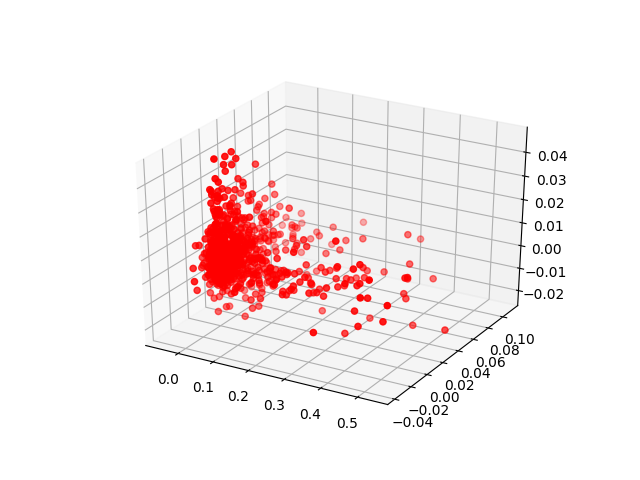
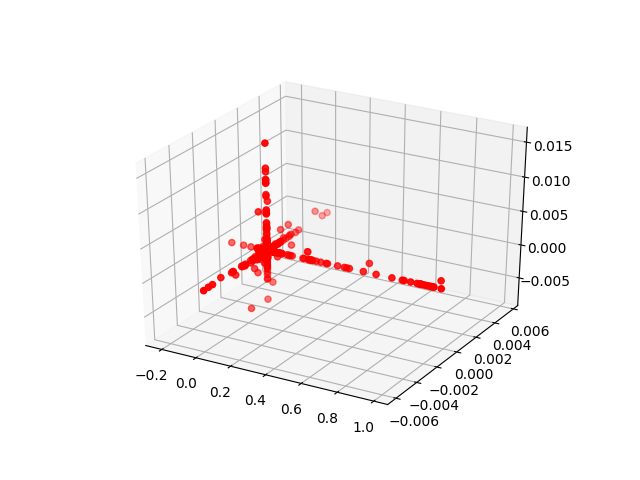
updated plotting

Changed region(s): [[0.2188, 0.1875, 0.9062, 0.9062], [0.2188, 0.7812, 0.5938, 0.9062]]

diff --git a/test_autoencoder.py b/test_autoencoder.py
@@ -3,19 +3,19 @@ import tensorflow.contrib.layers as lays
 
 import tensorflow as tf
 import numpy as np
-import matplotlib as mpl
 import matplotlib.pyplot as plt
+import matplotlib.axes
 from skimage import transform
 from mpl_toolkits.mplot3d import Axes3D
 from timeit import default_timer as timer
 
 # --------------- Define parameters -----------------------------
 batch_size = 10  # Number of samples in each batch
-epoch_num = 20  # Number of epochs to train the network
+epoch_num = 100  # Number of epochs to train the network
 lr = 0.001  # Learning rate
 OUTPUT_SIZE = 32 # size of the output volume produced by decoder
 INPUT_SIZE = 32 # size of the input volume given to the encoder
-total_input = 50
+total_input = 50 # total input volume
 
 def interpolationBetnLatentSpace(z1, z2):
     mx = 100
@@ -50,6 +50,7 @@ def loadfile():
         ax = input_fig.add_subplot(111, projection='3d')
         ax.scatter(ax_x, ax_y, ax_z, zdir='z', c='red')
         plt.savefig('input_data/demo' + str(i) + '.png')
+        plt.close()
         input_file = np.append(input_file, image_matrix)
 
     input_file = np.reshape(input_file, (50, 32 * 32 * 32))
@@ -114,12 +115,15 @@ with tf.Session() as sess:
             plot_loss = np.append(plot_loss, [[(ep+1), c]], axis=0)
 
     # --------------------plot loss -------------------------------------
-    print("This is plot_loss with shape", plot_loss, plot_loss.shape)
-    #plt.plot(plot_loss[:, 0], plot_loss[:, 1])
-    fig = plt.figure()
-    ax = fig.add_subplot(111, projection='3d')
-    plt.plot(plot_loss[:, 0], plot_loss[:, 1], c='red')
-    plt.savefig('output_data/loss.png')
+
+    plot_loss = plot_loss[1:, 0:]
+    print("This is plot_loss X and Y ", plot_loss[:, 0], plot_loss[:, 1])
+    loss_fig = plt.figure()
+    ax = loss_fig.add_subplot(111, projection='3d')
+    ax.plot(plot_loss[:, 0], plot_loss[:, 1], c='blue')
+    plt.savefig('output_data/test_loss.png')
+    plt.close()
+
 
     # ------------------test the trained network-------------------------------
     # batch_img = next_batch(input_file,1,0)
@@ -131,6 +135,7 @@ with tf.Session() as sess:
     l_space1 = sess.run([l_space, ae_outputs], feed_dict={ae_inputs: batch_img})[0]
     print("This is output shape of the decoder", recon_img.shape)
     out = np.reshape(recon_img, (OUTPUT_SIZE, OUTPUT_SIZE, OUTPUT_SIZE)).astype(np.float32)
+    avg_of_test_image = out.min()
     print("this is the shape of output volume", out.shape)
 
     # ----------------print the first line of the output shape ------------------------------
@@ -149,6 +154,7 @@ with tf.Session() as sess:
     ax = fig.add_subplot(111, projection='3d')
     ax.scatter(x, y, z, zdir='z', c='red')
     plt.savefig('output_data/demo_testMethod1.png')
+    plt.close()
 
     # -----------------------------test method 2----------------------------------------
 
@@ -159,13 +165,14 @@ with tf.Session() as sess:
     zdata = out[:, :, 2]
     ax.scatter3D(xdata, ydata, zdata, zdir='z', c='red')
     plt.savefig('output_data/demo_testMethod2.png')
+    plt.close()
 
     # ------------------------------test method 3-----------------------------------------
     plotOutArr = np.array([])
     for i in range(0, OUTPUT_SIZE):
         for j in range(0, OUTPUT_SIZE):
             for k in range(0, OUTPUT_SIZE):
-                if out[i, j, k] < 0.05:
+                if out[i, j, k] > 0.0001:
                     plotOutArr = np.append(plotOutArr, 1)
                 else:
                     plotOutArr = np.append(plotOutArr, 0)
@@ -176,6 +183,7 @@ with tf.Session() as sess:
     ax = fig.add_subplot(111, projection='3d')
     ax.scatter(x, y, z, zdir='z', c='red')
     plt.savefig('output_data/demo_testMethod3.png')
+    plt.close()
 
     # ------------------------------test method 4-----------------------------------------
 
@@ -184,6 +192,7 @@ with tf.Session() as sess:
     ax = fig.add_subplot(111, projection='3d')
     ax.scatter(x, y, z, zdir='z', c='red')
     plt.savefig('output_data/demo_testMethod4.png')
+    plt.close()
 
 
     '''start = timer()

diff --git a/autoencoder_main.py b/autoencoder_main.py
@@ -61,6 +61,7 @@ init = tf.global_variables_initializer()
 
 with tf.Session() as sess:
     sess.run(init)
+    plot_loss = np.zeros([1, 2])
     for ep in range(epoch_num):  # epochs loop
         for batch_n in range(batch_per_ep):  # batches loop
             batch_img, batch_label = mnist.train.next_batch(batch_size)  # read a batch
@@ -68,6 +69,13 @@ with tf.Session() as sess:
             batch_img = resize_batch(batch_img)                          # reshape the images to (32, 32)
             _, c = sess.run([train_op, loss], feed_dict={ae_inputs: batch_img})
             print('Epoch: {} - cost= {:.5f}'.format((ep + 1), c))
+            plot_loss = np.append(plot_loss, [[(ep + 1), c]], axis=0)
+
+    print("This is plot_loss with shape", plot_loss[1:, :])
+    plot_loss = plot_loss[1:, 0:]
+    plt.plot(plot_loss[:, 0], plot_loss[:, 1], c='red')
+    plt.savefig('output_data/autoencoder_loss.png')
+
 
     # test the trained network
     batch_img, batch_label = mnist.test.next_batch(50)

diff --git a/pract.py b/pract.py
@@ -1,10 +1,12 @@
 import numpy as np
+import matplotlib.pyplot as plt
 
-out = np.array([[[1,0,0], [0,2,0], [1,1,0]],
-                [[1,0,0], [0,2,0], [1,1,0]],
-                [[1,0,0], [0,2,0], [1,1,0]]])
+out = np.array([[1,5],[5,5]])
 print("This is the shape of out", out.shape)
-z,x,y = out.nonzero()
-print("This is z", type(z),z.shape,z)
-print("This is x", type(x),x.shape,x)
-print("This is y", type(y),y.shape,y)
+
+out_1 = np.array([[1,5],[4,5]])
+
+
+plt.plot(out, out_1)
+plt.show()
+
